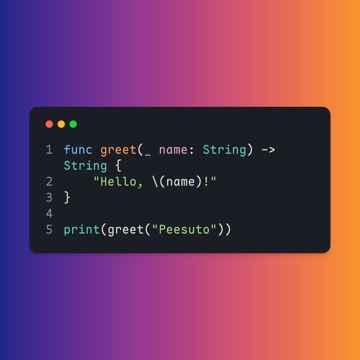
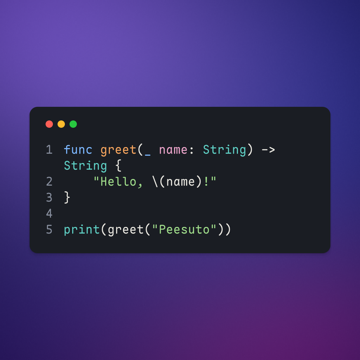
feat(templates): Indigo night field behind the terminal code card, hue arc in GIFs
The owner picked the "Indigo night" colour field (CODE_FIELDS.indigo, the
parameters approved in the comparison sheets) as the Terminal style's
backdrop. A GIF's 256-colour palette dithers the soft field visibly, so
the backdrop now depends on the output format: CODE_STYLES.classic.backdrop
is the field (PNG, MP4) and the new gifBackdrop keeps the existing hue arc.
layoutTemplate takes an optional { format } (default: PNG for a still
plan, GIF for an animated one, as renderTemplate picks) and composeTemplate
passes the format being rendered; precompose keys already include the
output. The principles test no longer counts a full-bleed field image as
content running into the signature. Code previews and the onboarding code
sample are regenerated.

diff --git a/core/src/templates/compose.ts b/core/src/templates/compose.ts
@@ -10,7 +10,7 @@ import { encodeQr, qrRuns } from "./qr.ts";
 import { highlight, type CodePalette } from "./highlight.ts";
 import { DEFAULT_TEMPLATE_FONT, FRAMES, READABILITY, TEMPLATE_MAX_GRAPHEMES, type ChangeType, type InfoFieldType, type TemplateFontChoice, type TemplateId, type TemplateMotion, type TemplatePlan } from "./types.ts";
 import { sampleArc, type HueArc } from "./gradient.ts";
-import { stageField, type ColourField } from "./backdrop.ts";
+import { CODE_FIELDS, stageField, type ColourField } from "./backdrop.ts";
 import { FATAL_CHECKS, checkLayout, type CheckViolation } from "./checks.ts";
 
 export const TEMPLATE_LIMITS = { maxHeight: 4096, maxGraphemes: TEMPLATE_MAX_GRAPHEMES, fps: 30, typingMaxMs: 4200, holdMs: 1200 } as const;
@@ -29,11 +29,19 @@ export function minFontSize(canvasWidth: number, role: "body" | "secondary" = "b
 /** The only glyphs a layout draws that are not in the source: ordered-list
  * numbers (document and list). The measurer is warmed with them. */
 export const LAYOUT_GLYPHS = "0123456789";
+/** The file a layout is drawn for: some styles draw differently for GIF (a 256-colour palette). */
+export type TemplateFormat = "png" | "gif" | "mp4";
+export interface LayoutOptions {
+  /** Default: PNG for a still plan, GIF for an animated one (as renderTemplate picks). */
+  readonly format?: TemplateFormat;
+}
+/** The format a render of `plan` produces when none is given (renderTemplate's default). */
+export const defaultTemplateFormat = (plan: Pick<TemplatePlan, "motion">): TemplateFormat => (plan.motion === "none" ? "png" : "gif");
 /** A layout's canvas: `height` is the minimum canvas height (content may grow
  * it); `fit` is the height templates size their type against. Fixed frames use
  * the frame height for both; the automatic frame fits against a square and
  * starts the canvas at a per-template minimum so it hugs the content. */
-interface View { width: number; height: number; fit: number }
+interface View { width: number; height: number; fit: number; format: TemplateFormat }
 /* ───────────── Style tokens ─────────────
  * Every colour, size and spacing a template uses lives in these tables;
  * layoutAt() reads only them, so a redesign changes numbers here, not layout
@@ -127,17 +135,21 @@ export const QUOTE_STYLES = {
  * variables, parameters), literal (true/false/null, symbols), meta (tags,
  * selectors, decorators, headings, diff deletions), punct (operators). */
 /** A full-bleed backdrop layer: one two-stop gradient, a hue arc drawn as segments (gradient.ts), or a
- * blurred colour field drawn as one stretched image (backdrop.ts; CODE_FIELDS holds samples). */
+ * blurred colour field drawn as one stretched image (backdrop.ts, CODE_FIELDS). A style's
+ * `gifBackdrop`, when set, replaces `backdrop` in GIF output. */
 export type BackdropLayer = { readonly dir: "t" | "b" | "l" | "r"; readonly from: string; readonly to: string } | { readonly arc: HueArc; readonly segments: number }
   | { readonly field: ColourField };
 
 export const CODE_STYLES = {
   /** Terminal: night panel, three dots, the language (from the fence only) at top right. */
   classic: { background: "#312e81", signature: "#ffffff",
-    /** Full-bleed layers behind the window: one hue arc left to right (indigo, violet, magenta,
-     * coral, amber), saturated all the way, never grey in the middle. No overlay: any tint laid
-     * across different hues (even black over orange, which turns brown) muddies them again. */
-    backdrop: [{ arc: { from: { l: 0.34, c: 0.16, h: 272 }, to: { l: 0.76, c: 0.16, h: 62 }, turn: 150 }, segments: 8 }],
+    /** Full-bleed layers behind the window: the "Indigo night" colour field (PNG and MP4). */
+    backdrop: [{ field: CODE_FIELDS.indigo }],
+    /** GIF: a 256-colour palette dithers the soft field visibly, so GIF keeps one hue arc left to
+     * right (indigo, violet, magenta, coral, amber), saturated all the way, never grey in the middle.
+     * No overlay: any tint laid across different hues (even black over orange, which turns brown)
+     * muddies them again. */
+    gifBackdrop: [{ arc: { from: { l: 0.34, c: 0.16, h: 272 }, to: { l: 0.76, c: 0.16, h: 62 }, turn: 150 }, segments: 8 }],
     panel: { fill: "#1a1d23", radius: 24, pad: 48, header: 80, shadow: "shadow-lg", dots: { size: 22, gap: 14, colors: ["#ff5f57", "#febc2e", "#28c840"] } },
     lineNumbers: { color: "#858c9b", gap: 32 },
     outer: 88, gutter: null, zebra: null, ink: "#e8e6df", sizes: [52, 48, 44, 40, 36], floor: 36, leading: 1.0,
@@ -145,7 +157,7 @@ export const CODE_STYLES = {
     syntax: { keyword: "#7cb7ff", string: "#9fdc8a", comment: "#7d8494", number: "#f4c430", function: "#f5a45d", type: "#5fd0c5",
       property: "#eaa3c9", literal: "#f4c430", meta: "#ff7b72", punct: "#a7adb9" } },
   /** Notebook: light page, zebra rows, the language in green. */
-  editorial: { background: "#f3f1ea", signature: "#6b675e", backdrop: null, panel: null, outer: 88, gutter: null as RailSlot, zebra: { color: "#e9e6dc", pad: 16, radius: 6 },
+  editorial: { background: "#f3f1ea", signature: "#6b675e", backdrop: null, gifBackdrop: null, panel: null, outer: 88, gutter: null as RailSlot, zebra: { color: "#e9e6dc", pad: 16, radius: 6 },
     lineNumbers: { color: "#6b675e", gap: 28 },
     ink: "#1d1d20", sizes: [52, 48, 44, 40, 36], floor: 36, leading: 1.1,
     lang: { size: 32, bold: true, color: "#237a49", gap: 28 },
@@ -526,7 +538,7 @@ const snapNear = (n: number): number => SIZES.reduce<number>((best, s) => (Math.
  * readability floor scales exactly with the width, so a style that meets it
  * at the reference width meets it scaled (36 → 48 → 64, 32 → 44 → 56). */
 export function scaledTo<T>(style: T, u: number, parent = ""): T {
-  if (u === 1 || style === null || typeof style !== "object" || parent === "backdrop") return style;
+  if (u === 1 || style === null || typeof style !== "object" || parent === "backdrop" || parent === "gifBackdrop") return style;
   const out: Record<string, unknown> | unknown[] = Array.isArray(style) ? [] : {};
   for (const [key, val] of Object.entries(style as Record<string, unknown>)) {
     let next: unknown;
@@ -588,13 +600,14 @@ function grownLayout(plan: TemplatePlan, measure: TemplateMeasure, view: View): 
 }
 
 /** Pure layout: fonts supply real advances in production, a metric fixture in unit tests. */
-export function layoutTemplate(plan: TemplatePlan, measure: TemplateMeasure): TemplateLayout {
+export function layoutTemplate(plan: TemplatePlan, measure: TemplateMeasure, options: LayoutOptions = {}): TemplateLayout {
+  const format = options.format ?? defaultTemplateFormat(plan);
   if (plan.template !== plan.content.kind) throw new ComposeError("catalog", "Template and structured content do not match.");
   if (!templateHasVariant(plan.template, plan.variant)) throw new ComposeError("catalog", "Unknown template variant.");
   if (plan.aspect !== "auto") {
     const frame = FRAMES[plan.aspect];
     if (!frame) throw new ComposeError("catalog", "Unknown card frame.");
-    return grownLayout(plan, measure, { ...frame, fit: frame.height });
+    return grownLayout(plan, measure, { ...frame, fit: frame.height, format });
   }
   // Automatic: the first width, trying wider ones when it overflows (a
   // diagram too wide even below the floor); the canvas starts at the
@@ -603,7 +616,7 @@ export function layoutTemplate(plan: TemplatePlan, measure: TemplateMeasure): Te
   let last: unknown;
   for (const width of widths) {
     const minRatio = AUTO_FRAME.minRatio[plan.template] ?? AUTO_FRAME.defaultMinRatio;
-    try { return grownLayout(plan, measure, { width, height: Math.round(width * minRatio / 2) * 2, fit: width }); }
+    try { return grownLayout(plan, measure, { width, height: Math.round(width * minRatio / 2) * 2, fit: width, format }); }
     catch (error) {
       if (!(error instanceof ComposeError) || error.code !== "overflow") throw error;
       last = error;
@@ -1106,7 +1119,7 @@ function layoutAt(plan: TemplatePlan, measure: TemplateMeasure, view: View, k = 
         ?? sizes.find((sz) => sz <= s.floor && fits(sz)) ?? sizes[sizes.length - 1]!;
       const codeX = textX + gutterW(size), codeW = textW - gutterW(size);
       const backdrop: (TemplateRect | TemplateImage)[] = [];
-      for (const layer of (s.backdrop ?? []) as readonly BackdropLayer[]) {
+      for (const layer of ((view.format === "gif" ? s.gifBackdrop ?? s.backdrop : s.backdrop) ?? []) as readonly BackdropLayer[]) {
         if ("field" in layer) {
           const image: TemplateImage = { x: 0, y: 0, width: W, height: 0, src: "", field: layer.field };
           layout.images.push(image); pinned.add(image); backdrop.push(image);
@@ -1495,7 +1508,7 @@ interface EngineMeasurer {
   close(): Promise<void>;
 }
 
-export async function composeTemplate(plan: TemplatePlan, options: ComposeOptions): Promise<TemplateComposeResult> {
+export async function composeTemplate(plan: TemplatePlan, options: ComposeOptions & LayoutOptions): Promise<TemplateComposeResult> {
   // A QR code carries any script; only its optional caption needs glyphs.
   const qr = plan.content.kind === "qr" ? plan.content : undefined;
   const script = qr ? undefined : unsupportedScript(plan.sourceText);
@@ -1547,7 +1560,7 @@ export async function composeTemplate(plan: TemplatePlan, options: ComposeOption
       width: (text, size, bold) => splitEmoji(text).reduce((width, run) => width + ("emoji" in run ? size : m.measure(size, bold)(run.text)), 0),
       lineHeight: (size, bold) => m.lineHeight(size, bold),
     };
-    const layout = layoutTemplate(plan, metrics);
+    const layout = layoutTemplate(plan, metrics, { format: options.format ?? defaultTemplateFormat(plan) });
     guardLayout(layout, plan);
     // The signature is drawn from the first frame and takes no part in reveal or typing.
     const count = layout.lines.reduce((total, line) => total + (line.signature ? 0 : graphemes(line.text).length), 0);

diff --git a/core/tests/backdrop.test.ts b/core/tests/backdrop.test.ts
@@ -143,10 +143,33 @@ describe("field backdrops in the terminal style", () => {
     try { return run(); } finally { style.backdrop = saved; }
   };
 
-  test("the hue arc stays the default", () => {
-    expect("arc" in CODE_STYLES.classic.backdrop[0]!).toBe(true);
-    const layout = layoutTemplate(samplePlan({ kind: "code", code: "echo hi" }), metrics);
-    expect(layout.images.filter((i) => i.field)).toEqual([]);
+  test("PNG and MP4 draw the Indigo night field; GIF keeps the hue arc", () => {
+    expect(CODE_STYLES.classic.backdrop).toEqual([{ field: CODE_FIELDS.indigo }]);
+    expect("arc" in CODE_STYLES.classic.gifBackdrop[0]!).toBe(true);
+    const plan = samplePlan({ kind: "code", code: "echo hi" });
+    const arcSegments = (l: ReturnType<typeof layoutTemplate>) => l.shapes.filter((s) => s.gradient && s.y === 0 && s.height === l.height);
+    for (const format of ["png", "mp4"] as const) {
+      const layout = layoutTemplate(plan, metrics, { format });
+      const fields = layout.images.filter((i) => i.field);
+      expect(fields).toHaveLength(1);
+      expect(fields[0]!.field).toBe(CODE_FIELDS.indigo);
+      expect(fields[0]).toMatchObject({ x: 0, y: 0, width: layout.width, height: layout.height });
+      expect(arcSegments(layout)).toEqual([]);
+    }
+    const gif = layoutTemplate({ ...plan, motion: "reveal" }, metrics, { format: "gif" });
+    expect(gif.images.filter((i) => i.field)).toEqual([]);
+    expect(arcSegments(gif)).toHaveLength(CODE_STYLES.classic.gifBackdrop[0]!.segments);
+    // Without a format: a still plan is a PNG, an animated one a GIF (renderTemplate's default).
+    expect(layoutTemplate(plan, metrics).images.filter((i) => i.field)).toHaveLength(1);
+    expect(layoutTemplate({ ...plan, motion: "reveal" }, metrics).images.filter((i) => i.field)).toEqual([]);
+  });
+
+  test("the notebook style has no backdrop in any format", () => {
+    for (const format of ["png", "gif", "mp4"] as const) {
+      const layout = layoutTemplate(samplePlan({ kind: "code", code: "echo hi" }, "editorial"), metrics, { format });
+      expect(layout.images.filter((i) => i.field)).toEqual([]);
+      expect(layout.shapes.filter((s) => s.gradient)).toEqual([]);
+    }
   });
 
   test("a field is one pinned, full-bleed image stretched to the canvas, instead of gradient rects", () => {

diff --git a/core/tests/template-principles.test.ts b/core/tests/template-principles.test.ts
@@ -194,7 +194,7 @@ describe("template principles", () => {
   });
   test("the signature footer: every card but QR, below everything, inside the canvas, and a fitting card keeps its frame", () => {
     const boxes = (layout: TemplateLayout) => [...layout.lines.filter((l) => !l.signature).map((l) => ({ y: l.y, bottom: l.y + l.height })),
-      ...layout.images.map((i) => ({ y: i.y, bottom: i.y + i.height }))];
+      ...layout.images.filter((i) => !i.field).map((i) => ({ y: i.y, bottom: i.y + i.height }))]; // a colour-field backdrop is ground
     eachLayout((layout, content, label) => {
       const footer = layout.lines.filter((l) => l.signature);
       if (!label.endsWith("/signed") || content.kind === "qr") { expect(footer).toEqual([]); return; }
@@ -212,7 +212,7 @@ describe("template principles", () => {
     // Short content in a fixed frame: the footer fits in the frame, no growth (so a GIF does not scroll).
     for (const content of TEMPLATE_SAMPLES) for (const variant of templateRegistration(content.kind).variants.map((v) => v.id)) {
       const plain = layoutTemplate(samplePlan(content, variant), metrics);
-      const contentBottom = Math.max(...plain.lines.map((l) => l.y + l.height), ...plain.images.map((i) => i.y + i.height),
+      const contentBottom = Math.max(...plain.lines.map((l) => l.y + l.height), ...plain.images.filter((i) => !i.field).map((i) => i.y + i.height),
         ...plain.shapes.filter((r) => r.height < plain.height / 2).map((r) => r.y + r.height));
       // Room for the footer (gap 40, one 32 px line at leading 1.2, inset 56) in the frame.
       const top = Math.min(...plain.lines.map((l) => l.y), ...plain.shapes.filter((r) => r.height < plain.height / 2).map((r) => r.y));

diff --git a/core/tests/gradient.test.ts b/core/tests/gradient.test.ts
@@ -20,7 +20,7 @@ describe("hue arcs", () => {
   });
 
   test("the code backdrop never passes through grey, even between segment stops", () => {
-    const layer = CODE_STYLES.classic.backdrop[0]!;
+    const layer = CODE_STYLES.classic.gifBackdrop[0]!;
     const colors = sampleArc(layer.arc, layer.segments);
     expect(colors).toHaveLength(layer.segments + 1);
     for (const c of colors) expect(saturation(rgb(c))).toBeGreaterThan(0.45);
@@ -31,9 +31,9 @@ describe("hue arcs", () => {
 
   test("segments tile the full width on whole pixels, each stop shared with its neighbour", () => {
     const metrics: TemplateMeasure = { width: (t, s) => [...t].length * s * 0.6, lineHeight: (s) => s * 1.2 };
-    const layout = layoutTemplate(samplePlan({ kind: "code", code: "echo hi" }), metrics);
+    const layout = layoutTemplate(samplePlan({ kind: "code", code: "echo hi" }), metrics, { format: "gif" });
     const segments = layout.shapes.filter((s) => s.gradient && s.y === 0).sort((a, b) => a.x - b.x);
-    expect(segments.length).toBe(CODE_STYLES.classic.backdrop[0]!.segments);
+    expect(segments.length).toBe(CODE_STYLES.classic.gifBackdrop[0]!.segments);
     expect(segments[0]!.x).toBe(0);
     for (let i = 1; i < segments.length; i++) {
       expect(segments[i]!.x).toBe(segments[i - 1]!.x + segments[i - 1]!.width);

diff --git a/core/src/templates/backdrop.ts b/core/src/templates/backdrop.ts
@@ -244,8 +244,8 @@ export async function stageField(field: ColourField, canvas: Size, cacheDir: str
 }
 
 /**
- * Sample colour fields for the code template's terminal style (not the
- * default yet). Each keeps two or three neighbouring hues on a dark ground,
+ * Colour fields for the code template's terminal style: `indigo` is its
+ * backdrop in PNG and MP4 (GIF keeps the hue arc); the others are samples. Each keeps two or three neighbouring hues on a dark ground,
  * with one light source, so the dark code window stands out from what is
  * around it and the signature (white) keeps 4.5:1 at the foot.
  */

diff --git a/docs/templates.md b/docs/templates.md
@@ -108,7 +108,7 @@ and bars that only decorate are not drawn: the style tables keep their slots
 `null`, so a style can bring one back as a token change. One accent colour per
 style, with a role (an accented word, a heading level, a bullet). Greys are
 warm; ink is a warm or dark near-black, never pure black. Owner-approved
-exceptions: the code terminal's hue-arc backdrop and window dots, the info
+exceptions: the code terminal's backdrop (colour field, hue arc in GIFs) and window dots, the info
 card's pill and icons, and colour-field grounds (Poster, Big number, the
 comparison panels), which are the style rather than an accent on it.
 
@@ -216,7 +216,16 @@ error; it never chooses the font. Token: `SIGNATURE_STYLE` in `compose.ts`.
   built-ins), property (attributes, properties, variables, parameters), literal
   (true/false/null, symbols), meta (tags, selectors, decorators, headings, diff
   deletions; diff additions use string), punct (operators, punctuation).
-- Backdrop (Terminal): a hue arc, not a two-colour blend. A straight RGB
+- Backdrop (Terminal) depends on the output format: PNG and MP4 draw the
+  Indigo night colour field (`CODE_FIELDS.indigo`, `CODE_STYLES.classic.backdrop`);
+  GIF draws the hue arc below (`CODE_STYLES.classic.gifBackdrop`), since a
+  256-colour GIF palette dithers the soft field visibly. A style's
+  `gifBackdrop` replaces its `backdrop` in GIF output (null: the same
+  backdrop). `layoutTemplate(plan, measure, { format })` takes the format;
+  `composeTemplate` passes the one being rendered, and without one a still
+  plan is laid out as PNG and an animated one as GIF (renderTemplate's
+  default).
+- Hue arc (Terminal GIF backdrop): not a two-colour blend. A straight RGB
   gradient between distant hues goes grey in the middle; walking the hue circle
   stays saturated. `core/src/templates/gradient.ts` samples the arc in OKLCH
   (even perceptual steps, chroma reduced to fit sRGB, hue and lightness kept)
@@ -224,7 +233,7 @@ error; it never chooses the font. Token: `SIGNATURE_STYLE` in `compose.ts`.
   since the engine only has two-stop gradients. Current arc: indigo, violet,
   magenta, coral, amber (hue 272° to 62°, lightness 0.34 to 0.76). No overlay:
   any tint across different hues (black over orange turns brown) muddies it.
-- Colour-field backdrops (option, not a default yet): a backdrop layer
+- Colour-field backdrops: a backdrop layer
   `{ field }` draws a blurred colour field instead: a dark ground, a few large
   anisotropic Gaussian blobs of two or three neighbouring hues mixed in OKLab,
   an optional vignette and a fine seeded grain against banding.
@@ -237,9 +246,9 @@ error; it never chooses the font. Token: `SIGNATURE_STYLE` in `compose.ts`.
   are cached in `<work>/dist/.backdrops/` by a hash of the field and canvas
   size, about 25 ms uncached. Text drawn straight on a field is
   contrast-checked against the field's colour under it. `CODE_FIELDS` holds
-  three samples for the terminal (Indigo night, Dusk, Aurora); the hue arc
-  stays the terminal's default until one is chosen. In GIFs the 256-colour
-  palette dithers a field visibly.
+  three fields for the terminal: Indigo night (the PNG/MP4 default), Dusk and
+  Aurora (samples). In GIFs the 256-colour palette dithers a field visibly,
+  hence the terminal's GIF fallback to the hue arc.
 
 ### Info card: contacts, accounts and keys
 

diff --git a/CHANGELOG.md b/CHANGELOG.md
@@ -7,6 +7,7 @@ section here becomes one.
 
 ## Unreleased
 
+- Code cards in the Terminal style sit on a soft, blurred "Indigo night" colour field (deep indigo and violet with a touch of magenta, light from the top left) in images and videos. GIFs keep the hue-arc backdrop, because a GIF's 256-colour palette would band and dither the soft field.
 - Where Peesuto says Accessibility is missing (the task window, the Paste as… chooser, the welcome guide and Settings › General) a quiet second line explains the common trap: if the switch is already on in System Settings, remove Peesuto with − and add it again (macOS ties the grant to the app's signature, so an update can leave the switch on but the grant void).
 - New shortcut model: ⌥V opens a small "Paste as…" chooser at the text caret (near the pointer when the app does not report a caret) without taking focus from the app you are typing in. It shows the card for the copied text (instant when prepared on copy, a spinner otherwise) and one key per output: Return image, G GIF, M video, Q QR code, P pin to screen, H the full history, Esc cancels; rows are clickable. With an image on the clipboard only pin and history apply. ⇧⌥V opens the clipboard history. The direct image/GIF/video/QR/pin shortcuts (formerly ⌘⌥1–5) stay bindable in Settings › Shortcuts but are unbound by default. Existing installs are reset to these defaults once (`shortcuts_version` 2; custom bindings are not kept), and the panel says so. The menu bar shows the keys.
 - The welcome guide's last page offers optional smarter suggestions: Set Up… ends the guide and opens Settings › AI at the decider, which now explains each choice in a line.
